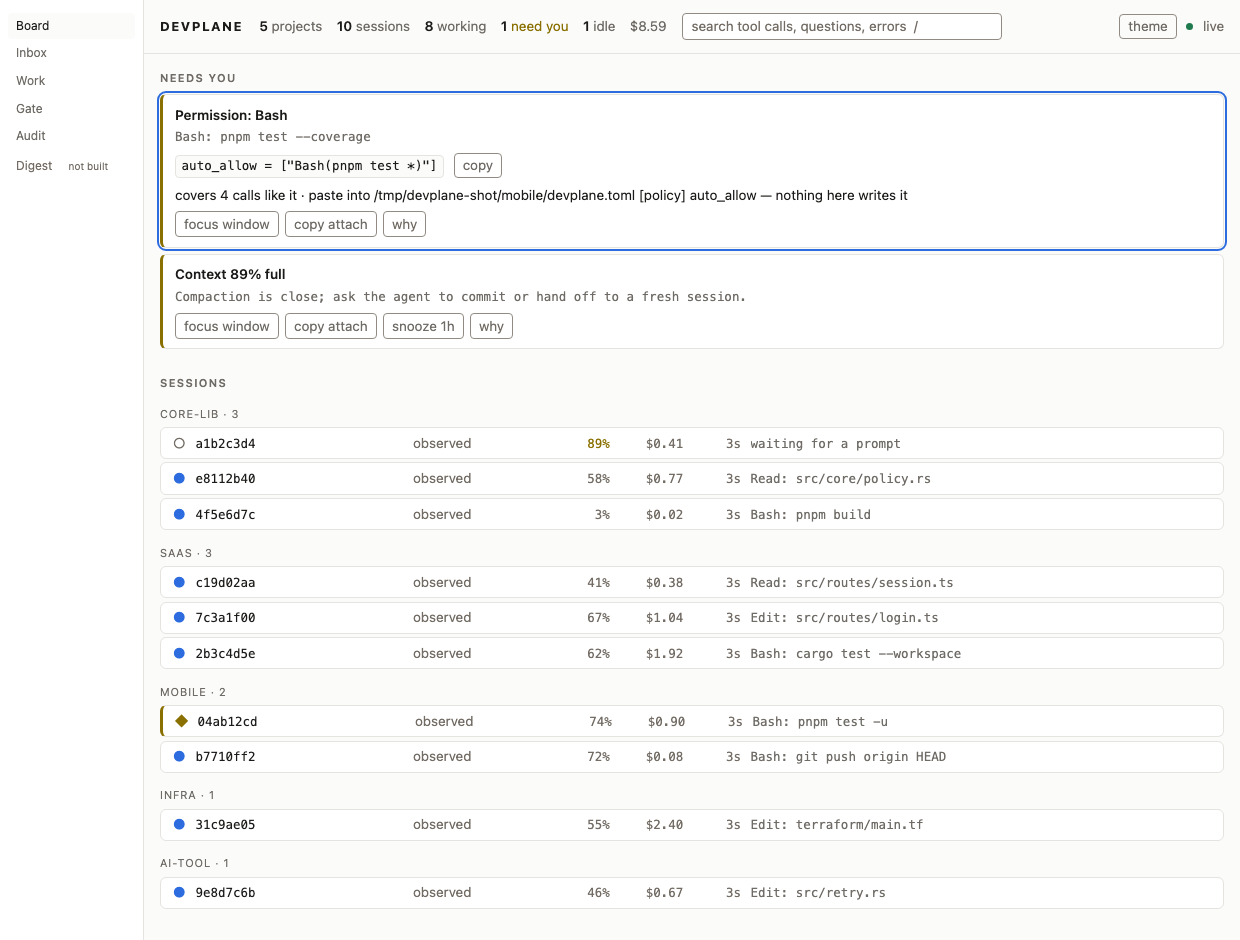
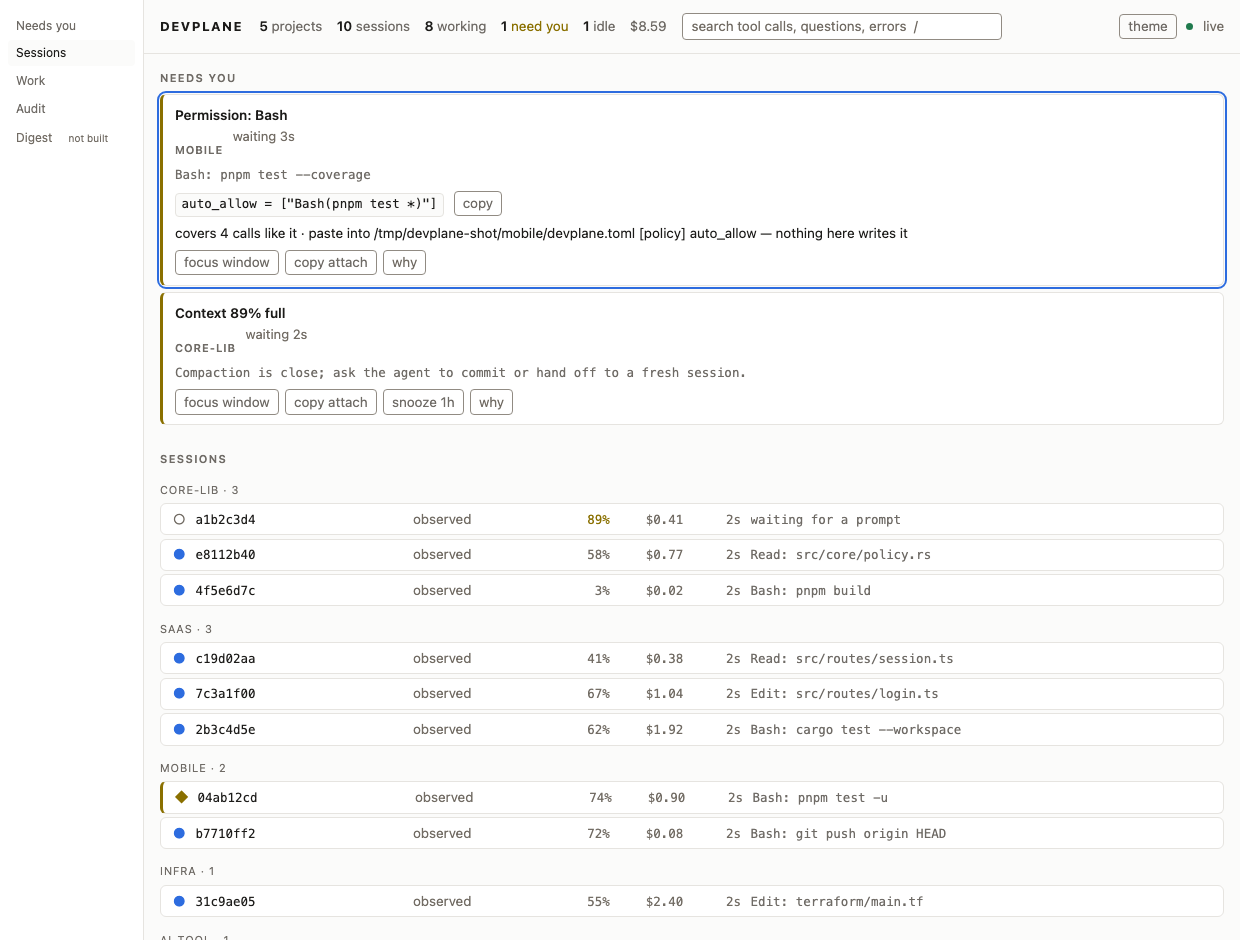
feat(ui): open on what needs you, not on a list of sessions
Anthropic ships `claude agents` — one screen for every background session,
grouped by what needs input, maintained by the people who own the session
format. Devplane opened on its own version of that and put the surface nothing
else has one click away.

The list underneath was already right. Research checked eleven things the
specification asked for and found eight already built: it is already assembled
across every project, already ordered by level then age, already contains work
whose session has ended — with a passing test for exactly that — already
excludes things needing nobody, already drops resolved rows and snoozes rather
than deletes. Twenty-two item kinds, eight of them work-shaped.

So this is a default, a project name, an age, and some layout. The rail opens
on "Needs you"; "Sessions" moves below it and is otherwise untouched, because
making it prettier is competing on the vendor's surface.

Two things were not what the specification assumed. The item carries a project
*id*, not a name — so the name is attached by the daemon, for the reason the
forge list already works that way: a page that resolves ids against a second
list renders a raw id the first time the two disagree, which is exactly when a
project has just been removed and somebody is reading the row. And the age is
genuinely rendering-only, because `since` was already there.

An existing guard needed fixing rather than deleting. The two-section rule read
[…]

diff --git a/ui/index.html b/ui/index.html
@@ -136,6 +136,13 @@
      newlines throws away the half that locates the problem. */
   .acts .why { color: var(--faint); }
   .item .d { color: var(--dim); margin-top: .2rem; overflow-wrap: anywhere; white-space: pre-wrap; }
+  /* Where a row came from and how long it has waited. Secondary to the title:
+     the title says what it is, these say whether it is yours and whether it has
+     been ignored. Wraps rather than truncates — a project name cut in half on a
+     phone is the one field that has to survive the narrow case. */
+  .item .meta { display: flex; flex-wrap: wrap; gap: .1rem .6rem; font-size: .82rem;
+                color: var(--faint); margin-top: .15rem; }
+  .item .meta .proj { font-weight: 600; }
   .opts { margin: .35rem 0 0; padding-left: 1.1rem; color: var(--dim); }
   .opts.picks { padding-left: 0; display: flex; gap: .4rem; flex-wrap: wrap; }
   .opts.picks button { display: inline-flex; align-items: baseline; gap: .45rem; }
@@ -503,8 +510,8 @@
 </style>
 
 <nav class="rail" aria-label="Surfaces"><div class="railinner">
-  <a href="#boardsec" data-surface="boardsec" aria-current="page">Board<span class="badge" id="railboard"></span></a>
-  <a href="#needs" data-surface="needs">Inbox<span class="badge" id="railinbox"></span></a>
+  <a href="#needs" data-surface="needs" aria-current="page">Needs you<span class="badge" id="railinbox"></span></a>
+  <a href="#boardsec" data-surface="boardsec">Sessions<span class="badge" id="railboard"></span></a>
   <a href="#worksec" data-surface="worksec">Work<span class="badge" id="railwork"></span></a>
   <a href="#auditsec" data-surface="auditsec">Audit</a>
   <!-- Not built. A `<span>` rather than a link: not focusable, not pressable,
@@ -704,6 +711,20 @@ const ago = (s) =>
   s < 60 ? s + "s" : s < 3600 ? Math.floor(s / 60) + "m"
   : s < 86400 ? Math.floor(s / 3600) + "h" : Math.floor(s / 86400) + "d";
 
+// How long a row has been waiting, from the timestamp it started at.
+//
+// **Elapsed, never a clock time.** "waiting since 11:04" asks a reader to do
+// arithmetic against a clock they may not be looking at; "waiting 3m" does not.
+// The list is ordered by this, so hiding it makes the order look arbitrary.
+//
+// A timestamp the browser cannot parse yields nothing rather than `NaN`: a row
+// with no age is better than a row claiming to have waited `NaNm`.
+const waited = (since) => {
+  const t = Date.parse(since);
+  if (!Number.isFinite(t)) return "";
+  return "waiting " + ago(Math.max(0, Math.round((Date.now() - t) / 1000)));
+};
+
 // `connected` is tri-state on purpose: `undefined` not asked, `null` asked and
 // unknown, a boolean answered. An empty board must not claim "nothing is
 // connected" on the strength of a request that failed.
@@ -845,6 +866,10 @@ function render() {
     ? state.inbox.map((i, n) => `
         <div class="card item ${esc(i.level)}" role="listitem" data-sel="${n}" data-run="${esc(i.run_id || "")}" tabindex="0">
           <div class="t">${esc(i.title)}</div>
+          <div class="meta">
+            ${i.project_name ? `<span class="proj">${esc(i.project_name)}</span>` : ""}
+            ${i.since ? `<span class="waited">${esc(waited(i.since))}</span>` : ""}
+          </div>
           ${i.detail ? `<div class="d">${esc(i.detail)}</div>` : ""}
           ${i.kind === "config_broken"
             // The one item whose whole answer is a file. `,` is where the file
@@ -2009,10 +2034,16 @@ $("theme").addEventListener("click", () => {
 // script photograph a surface without injecting a script into the page.
 function surfaceFromHash() {
   const want = (location.hash || "").slice(1);
-  showSurface(SURFACES.includes(want) ? want : "boardsec");
+  showSurface(SURFACES.includes(want) ? want : "needs");
 }
-// The board is the default and its two sections are marked so before any
+// **The waiting list is the default**, and its section is marked so before any
 // refresh runs — otherwise the first paint is a page with nothing on it.
+//
+// It used to be the session list. Anthropic ships that surface as `claude
+// agents`, maintained by the people who own the session format, and theirs is
+// better; what only this product has — work that outlived the session that made
+// it — was one click away. A default is a small change and it is most of what
+// this page is for.
 surfaceFromHash();
 addEventListener("hashchange", surfaceFromHash);
 

diff --git a/tests/ui_render.js b/tests/ui_render.js
@@ -144,6 +144,8 @@ const item = {
   },
   no_offer: null,
   since: "2026-09-15T00:00:00Z",
+  // The project name comes from a repository, so it is somebody else's bytes.
+  project_name: NASTY,
 };
 const work = {
   id: "w1",
@@ -307,5 +309,29 @@ if (!el("ghbody").innerHTML.includes("gh: not logged in")) {
 
 // A state glyph reads as a word too.
 if (!board.includes('class="sr">working<')) fail("the board's state glyph has no word beside it");
+
+// ── The waiting row says where it came from and how long ───────────────────
+//
+// Both are what make the list readable without opening a row, and the project
+// name is repository-provided text, so it is in the escaping sweep above too.
+if (!inbox.includes("proj")) fail("a waiting row does not name its project");
+if (!inbox.includes("waiting ")) fail("a waiting row does not say how long it has waited");
+
+// A row whose project the world no longer has renders without it rather than
+// rendering a raw id at a person.
+context.__ui.setState({
+  board: board_, inbox: [{ ...item, project_name: null }], work: [work], sel: 0, showAll: false,
+});
+context.__ui.render();
+const anon = el("inbox").innerHTML;
+if (!anon.includes("card item")) fail("a row with no project name vanished");
+if (anon.includes("p1")) fail("a row with no project name fell back to showing the raw id");
+
+// An unparseable timestamp yields no age rather than `NaN`.
+context.__ui.setState({
+  board: board_, inbox: [{ ...item, since: "not a date" }], work: [work], sel: 0, showAll: false,
+});
+context.__ui.render();
+if (el("inbox").innerHTML.includes("NaN")) fail("an unreadable timestamp rendered as NaN");
 
 console.log("ui_render: ok");

diff --git a/tests/ui_contract.rs b/tests/ui_contract.rs
@@ -1409,11 +1409,16 @@ fn the_default_surface_shows_both_of_the_boards_sections() {
         .find("<nav class=\"rail\"")
         .map(|i| &PAGE[i..i + PAGE[i..].find("</nav>").expect("the rail closes")])
         .expect("the rail exists");
+    // **The board's entry, not the rail's first.** This read `nth(1)` — the
+    // first surface in the rail — while the board happened to be first. It
+    // stopped being first when the page started opening on what needs you, and
+    // a guard that silently retargets itself onto a different surface is worse
+    // than no guard: it would have gone on passing about the wrong thing.
     let rail_id = rail
-        .split("data-surface=\"")
-        .nth(1)
-        .and_then(|r| r.split('"').next())
-        .expect("the rail's first entry");
+        .split("href=\"#")
+        .filter_map(|r| r.split('"').next())
+        .find(|id| id.starts_with("board"))
+        .expect("the rail no longer offers the session list");
     assert!(
         js.contains(&format!("which === \"{rail_id}\"")),
         "the rail calls the default surface `{rail_id}` and the code checks for something else"
@@ -1480,4 +1485,136 @@ fn every_command_outcome_has_a_word_the_page_can_say() {
             "no words for an outcome that is not a verdict: {phrase}"
         );
     }
+}
+
+// ── The landing surface ─────────────────────────────────────────────────────
+//
+// The page used to open on the session list. Anthropic ships that surface as
+// `claude agents`, maintained by the people who own the session format, and
+// theirs is better. What only this product has — work that outlived the session
+// that made it — sat one click away.
+
+/// **The page opens on what needs a person, not on a list of sessions.**
+#[test]
+fn the_landing_surface_is_what_needs_you() {
+    let rail = PAGE
+        .split("<nav class=\"rail\"")
+        .nth(1)
+        .and_then(|s| s.split("</nav>").next())
+        .expect("the rail is gone");
+    let current = rail
+        .split("aria-current=\"page\"")
+        .next()
+        .expect("no surface is marked current");
+    assert!(
+        current.contains("#needs"),
+        "the page still opens on something other than the waiting list"
+    );
+    // And it is first in the rail, because a list somebody has to scroll a
+    // navigation bar to find is a list they will stop looking at.
+    let needs_at = rail.find("#needs").expect("no waiting list in the rail");
+    let board_at = rail.find("#boardsec").expect("no session list in the rail");
+    assert!(
+        needs_at < board_at,
+        "the session list is still above the thing this product is for"
+    );
+}
+
+/// The session list moved. It did not go, and it was not rewritten.
+#[test]
+fn the_session_list_is_still_reachable_and_unchanged() {
+    assert!(
+        PAGE.contains("href=\"#boardsec\""),
+        "the session list is no longer reachable from the rail"
+    );
+    assert!(
+        PAGE.contains("id=\"boardsec\"") && PAGE.contains("id=\"board\""),
+        "the session list's markup was changed by a feature that was only supposed to move it"
+    );
+}
+
+/// **A row names its project and how long it has waited**, or the reader has to
+/// open it to find out what it is — which is the whole cost the list exists to
+/// remove.
+#[test]
+fn a_waiting_row_says_where_it_came_from_and_how_long() {
+    let inbox = PAGE
+        .split("$(\"inbox\").innerHTML")
+        .nth(1)
+        .and_then(|s| s.split("$(\"needs\").dataset").next())
+        .expect("the inbox renderer is gone");
+    assert!(
+        inbox.contains("project_name"),
+        "a row does not name its project"
+    );
+    assert!(
+        inbox.contains("i.since"),
+        "a row does not say how long it has waited, which is what the order is by"
+    );
+}
+
+/// The list crosses projects; it is not a set of per-project lists.
+#[test]
+fn the_waiting_list_is_not_grouped_by_project() {
+    let inbox = PAGE
+        .split("$(\"inbox\").innerHTML")
+        .nth(1)
+        .and_then(|s| s.split("$(\"needs\").dataset").next())
+        .expect("the inbox renderer is gone");
+    for grouping in ["<h3", "group", "projhead"] {
+        assert!(
+            !inbox.contains(grouping),
+            "the waiting list groups rows by something: {grouping}"
+        );
+    }
+}
+
+/// **Three things that already worked, still working after the surface moved.**
+///
+/// Research found them built, and *built* and *still built after the default
+/// changed* are different claims. This is the regression guard on the move
+/// rather than a test of the behaviours themselves, which have their own.
+#[test]
+fn moving_the_default_surface_did_not_cost_the_inbox_its_actions() {
+    let inbox = PAGE
+        .split("$(\"inbox\").innerHTML")
+        .nth(1)
+        .and_then(|s| s.split("$(\"needs\").dataset").next())
+        .expect("the inbox renderer is gone");
+
+    // A row can still be answered, so it can still leave the list.
+    for act in ["allow", "deny", "reply"] {
+        assert!(
+            inbox.contains(&format!("data-act=\"{act}\"")),
+            "a waiting row can no longer be answered: {act}"
+        );
+    }
+    // A row can still be hidden rather than dropped.
+    assert!(
+        inbox.contains("data-act=\"snooze\""),
+        "a waiting row can no longer be snoozed, so hiding it would mean losing it"
+    );
+    // And a live session is still attachable from where it is shown.
+    assert!(
+        inbox.contains("data-act=\"attach\""),
+        "a live session is no longer attachable from the row that mentions it"
+    );
+}
+
+/// The order is level, then age — and it is the page's job not to re-sort it.
+///
+/// The daemon ranks the list before it is sent. A page that sorted it again
+/// would be a second authority on urgency, and the two would disagree the first
+/// time one of them changed.
+#[test]
+fn the_page_does_not_re_sort_what_the_daemon_ranked() {
+    let inbox = PAGE
+        .split("$(\"inbox\").innerHTML")
+        .nth(1)
+        .and_then(|s| s.split("$(\"needs\").dataset").next())
+        .expect("the inbox renderer is gone");
+    assert!(
+        !inbox.contains(".sort("),
+        "the page re-sorts the waiting list, so there are two authorities on what is urgent"
+    );
 }

diff --git a/src/api.rs b/src/api.rs
@@ -782,9 +782,46 @@ async fn board(
     .into_response()
 }
 
+/// One waiting row, with the name of the project it came from.
+///
+/// **The item carries a project *id*, and a person cannot read an id.** The
+/// name is attached here rather than looked up in the page, for the reason the
+/// forge list already works this way: a page that resolves ids against a second
+/// list renders a raw id the first time the two disagree, and they disagree
+/// exactly when a project has just been removed — which is when somebody is
+/// most likely to be reading the row.
+#[derive(Serialize)]
+struct WaitingRow {
+    #[serde(flatten)]
+    item: crate::core::AttentionItem,
+    /// `None` when the item belongs to no project, or to one the world no
+    /// longer has. Absent rather than an empty string: *no project* and *a
+    /// project whose name we could not find* are both true silences, and
+    /// neither is the name.
+    project_name: Option<String>,
+}
+
 async fn inbox(State(state): State<Shared>, headers: HeaderMap) -> impl IntoResponse {
     guard!(state, headers);
-    Json(state.current_inbox().await).into_response()
+    let names: std::collections::BTreeMap<_, _> = {
+        let w = state.world.lock().await;
+        w.projects()
+            .map(|p| (p.id.clone(), p.name.clone()))
+            .collect()
+    };
+    let rows: Vec<WaitingRow> = state
+        .current_inbox()
+        .await
+        .into_iter()
+        .map(|item| WaitingRow {
+            project_name: item
+                .project_id
+                .as_ref()
+                .and_then(|id| names.get(id).cloned()),
+            item,
+        })
+        .collect();
+    Json(rows).into_response()
 }
 
 /// One row of the cross-project issue or pull-request list.

diff --git a/README.md b/README.md
@@ -252,16 +252,17 @@ recorded against this commit, not that the work is correct.
 
 ![The Devplane board: five projects, ten sessions, a permission waiting with the rule that would end it, and one session at 89% context](https://raw.githubusercontent.com/hupe1980/devplane/main/site/static/board.png)
 
-**And the surface nobody else ships.** Every watcher in this category can show
-you sessions. None of them can tell you how much to trust the thing deciding on
-your behalf — because none of them has ever measured it.
+**And it opens on the surface nobody else has.** Every watcher in this category can show you
+sessions — Claude Code now ships that itself, and does it better. None of them can show you the work
+that *outlived* the session: the branch whose check went red two hours after the agent stopped, the
+reviewer who has been waiting since yesterday, the pipeline held at a step somebody has to release.
 
-![The gate report: three floors — what has been read, what has been measured, and what the full matrix proved — each with what it does not claim](https://raw.githubusercontent.com/hupe1980/devplane/main/site/static/gate.png)
+![What needs you: one list across every project, each row naming its project and how long it has waited](https://raw.githubusercontent.com/hupe1980/devplane/main/site/static/inbox.png)
 
-Three separate claims, never averaged into one. Each carries the half nobody
-else prints: **what it does not claim.** The uncomfortable line at the bottom is
-the point — a per-release measurement covers only what the vendor announced, and
-saying so is what makes the rest of it believable.
+One list, every project, ordered by what is waiting rather than by which repository it belongs to. A
+project with six idle sessions and nothing to decide ranks below a project with none running and a
+red check from last night — not because anything is weighted, but because idle sessions raise nothing
+to answer.
 
 Keyboard-first:
 
